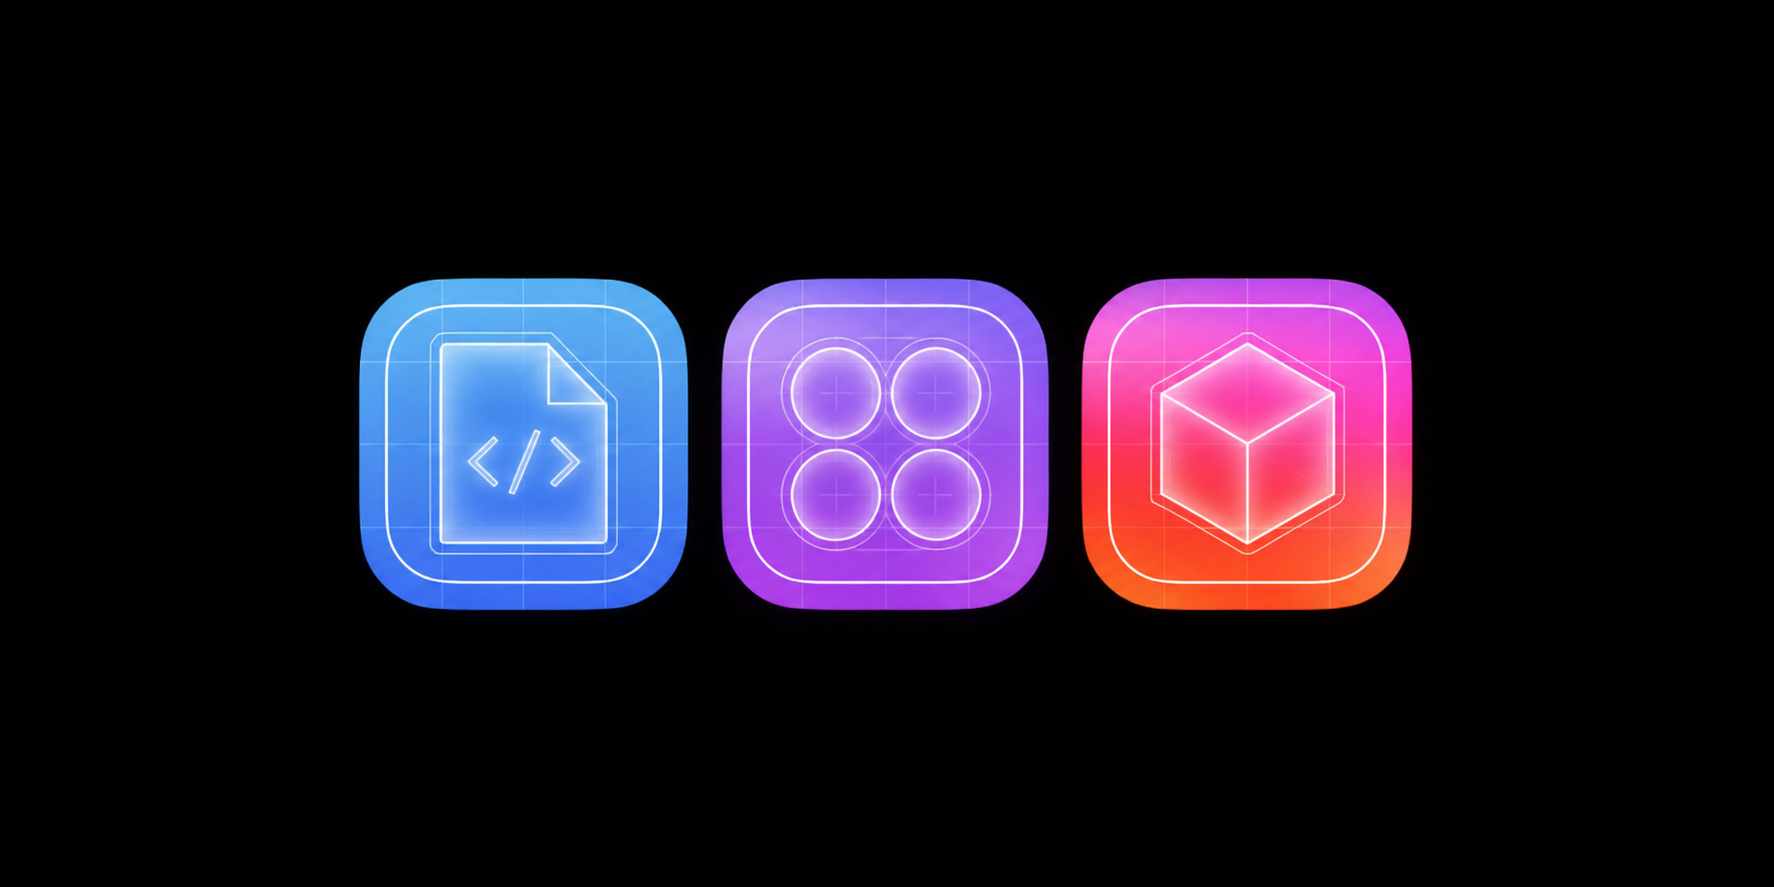
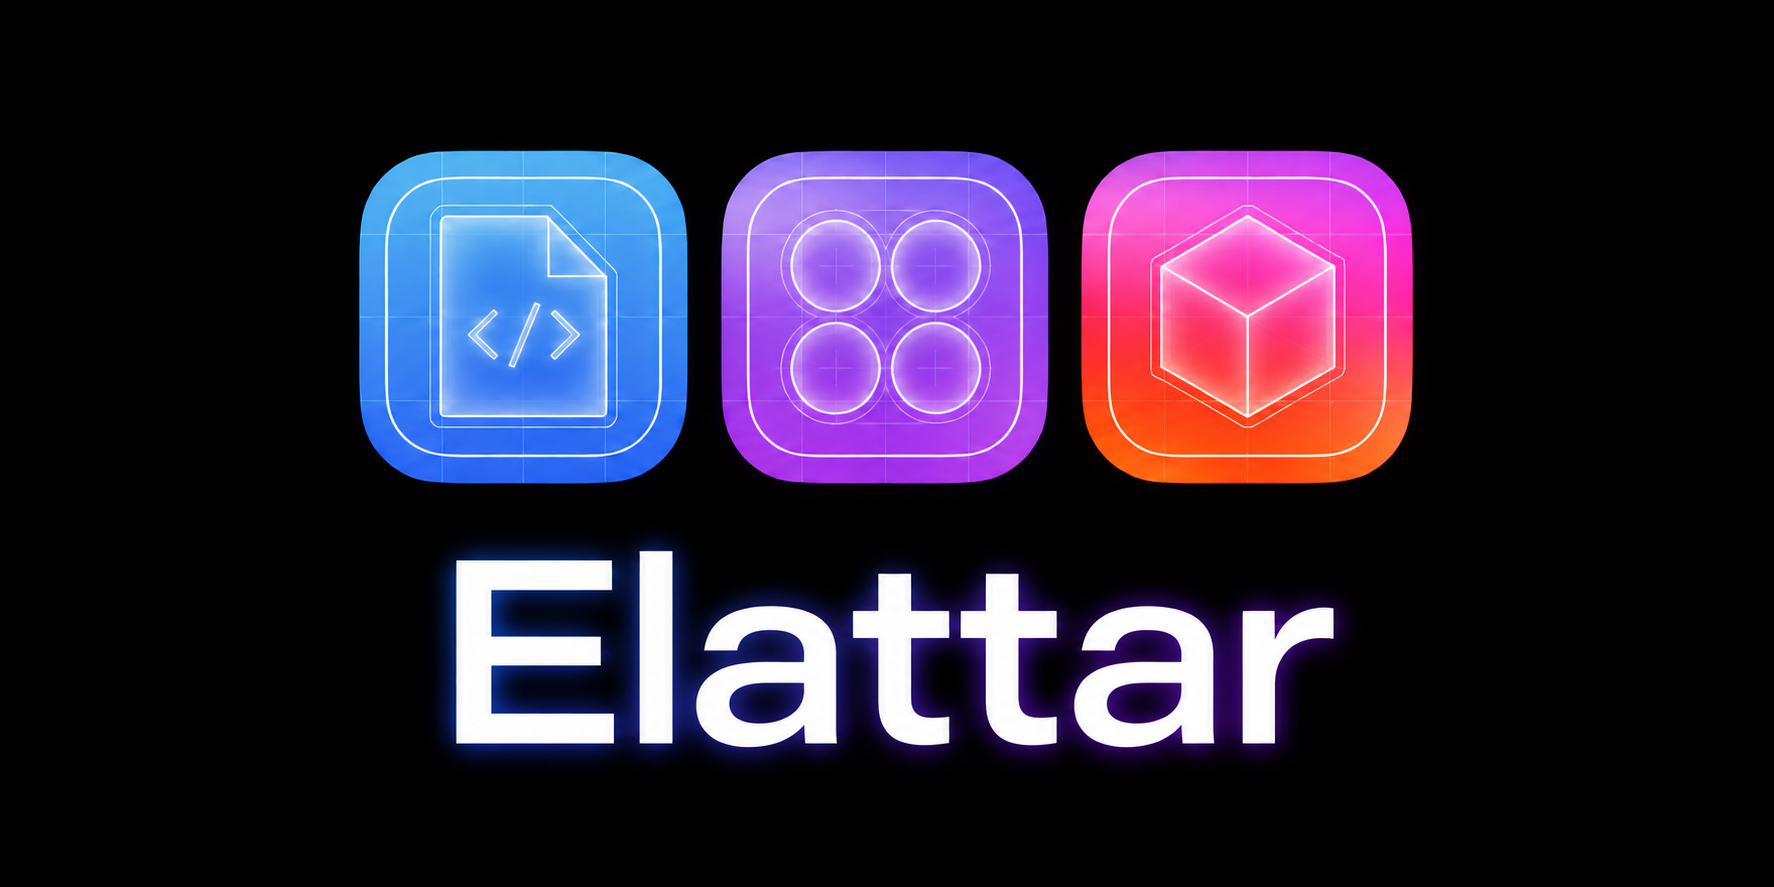
docs: brand the README hero

diff --git a/README.md b/README.md
@@ -1,5 +1,5 @@
 <p align="center">
-  <img src="docs/assets/readme/hero.png" alt="Blueprint tiles for Elattar source, foundation, and agent tooling" width="100%" />
+  <img src="docs/assets/readme/hero.png" alt="Elattar wordmark beneath blueprint tiles for source, foundation, and agent tooling" width="100%" />
 </p>
 
 # Elattar Design System
